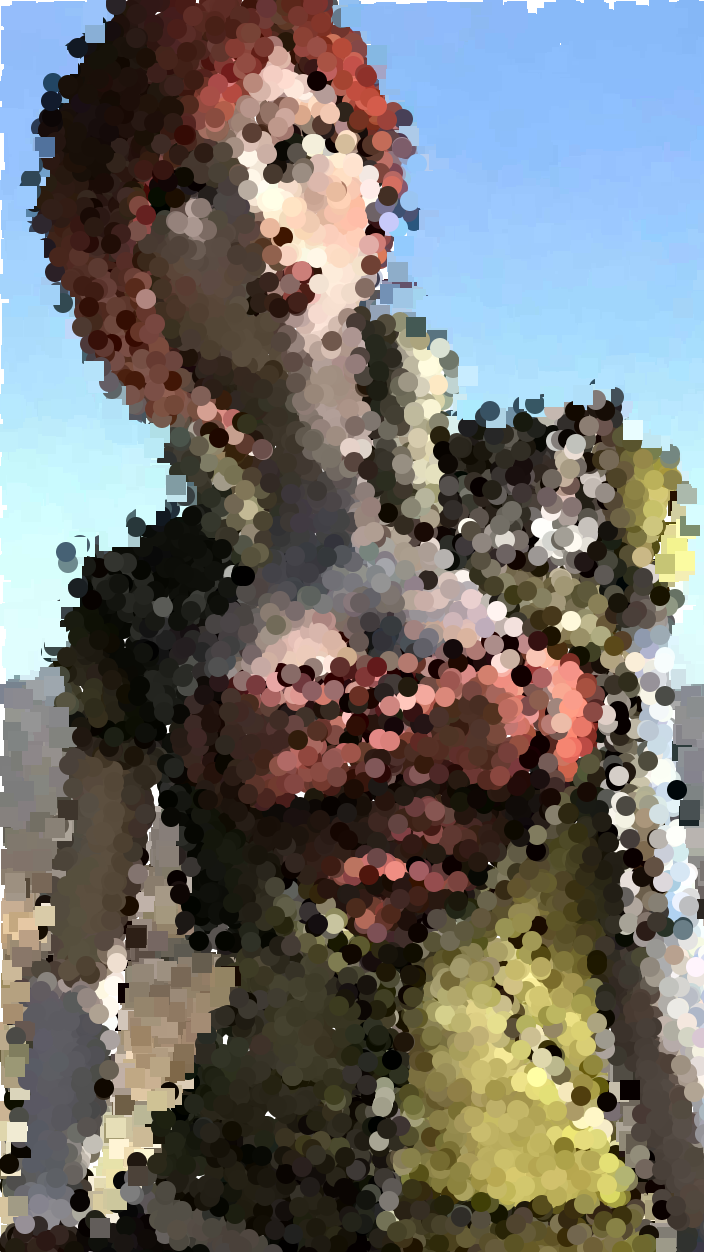
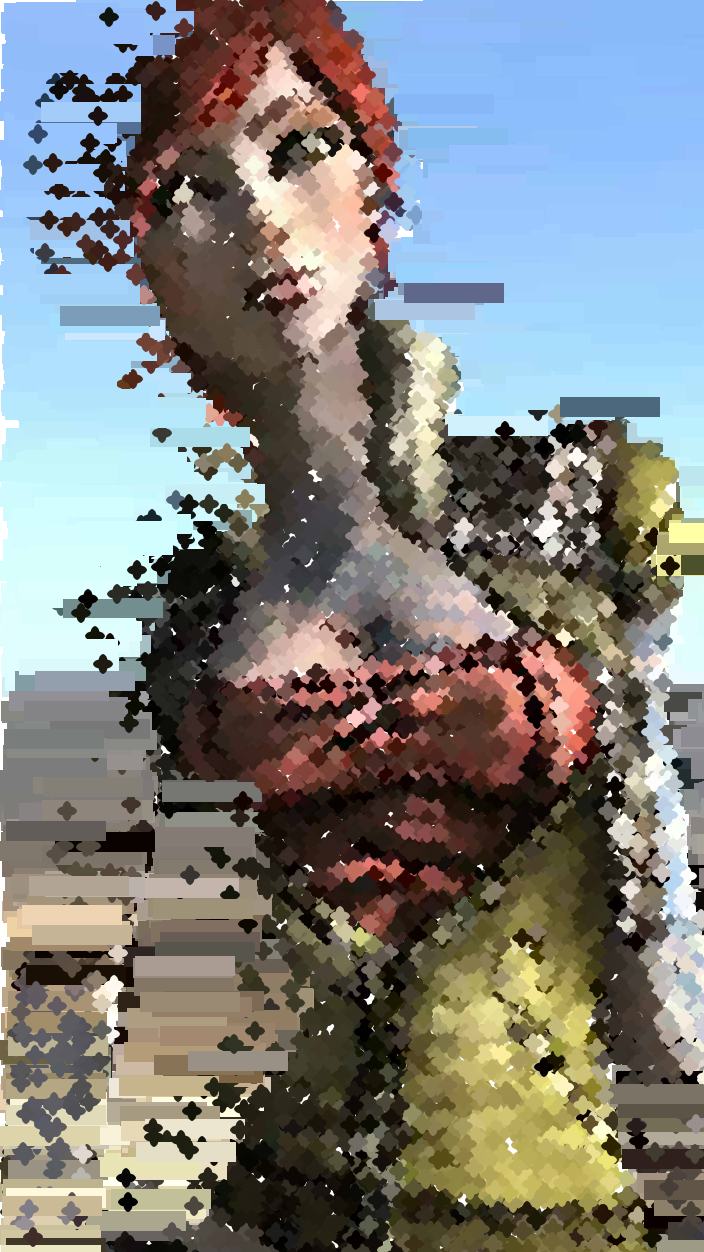
Testing out how the changes I made would look on monsters and a humanoid figure. Change 1.

diff --git a/sketch.js b/sketch.js
@@ -2,9 +2,9 @@ let sourceImg=null;
 let maskImg=null;
 let renderCounter=0;
 
-let sourceFile = "input_3.jpg";
-let maskFile   = "mask_3.png";
-let outputFile = "artwork_3.png";
+let sourceFile = "input_1.jpg";
+let maskFile   = "mask_1.png";
+let outputFile = "artwork_1.png";
 
 function preload() {
   sourceImg = loadImage(sourceFile);
@@ -32,10 +32,11 @@ function draw () {
     let halfSize = 50;
     fill(pix);
     if(mask[0] > 128) {
-      ellipse(x, y, pointSize, pointSize);
+      ellipse(x, y, pointSize, pointSize/2);
+      ellipse(x, y, pointSize/2, pointSize);
     }
     else {
-      rect(x, y, pointSize, pointSize);
+      rect(x, y, pointSize*5, pointSize);
     }
   }
   renderCounter = renderCounter + 1;

diff --git a/README.md b/README.md
@@ -1,3 +1,3 @@
 ## Creative Coding 2: Custom Pixel
 
-Just used 3 images to test it out. Nothing changed.
+First actual change to the code. I wanted to see how this would affect the images especially since I have 2 monsters and one human test picture. The human picture and mask seems to work quite well with this change I made, but the other 2 look extremely blocky in comparison because of the either the background or the actual figure of the image. So I am just guessing that anything that is not humanoid will not look too well with these changes, however, I do like the image that it produced on the image of the person. The person looks like she is fading away with the rect blocks overlapping the mask a bit. It might be worth looking into but I don't know exactly what I want to do for the main theme of my 3 images yet so I am just going to explore a bit more during the weekends + monday since we have a break. So far I like the ellipse idea but I want to see if I can expand on it more.
